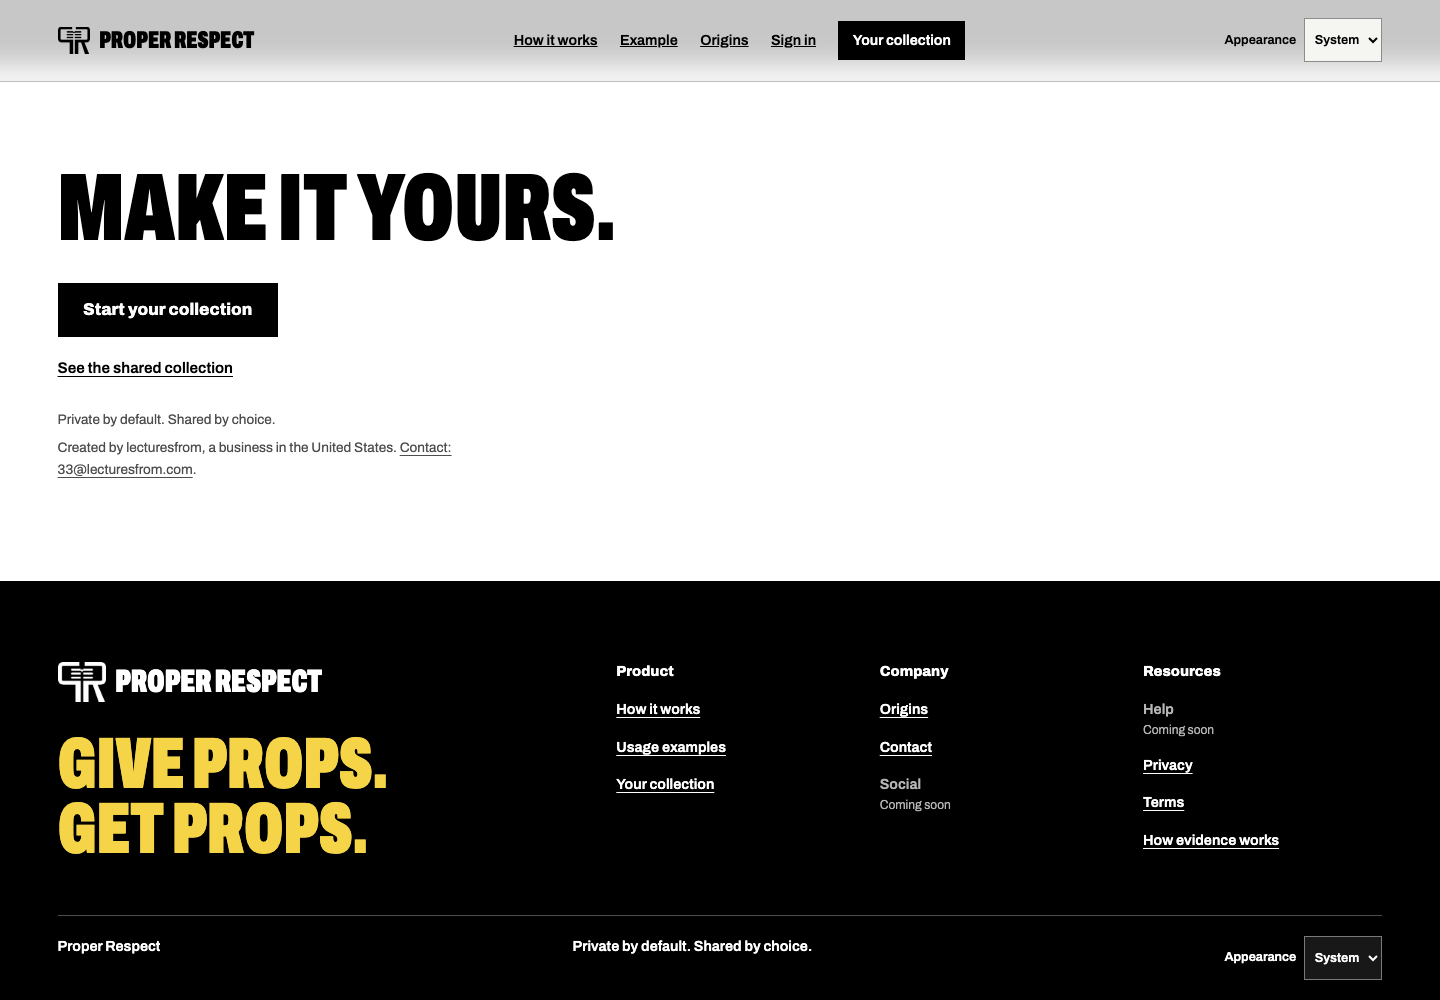
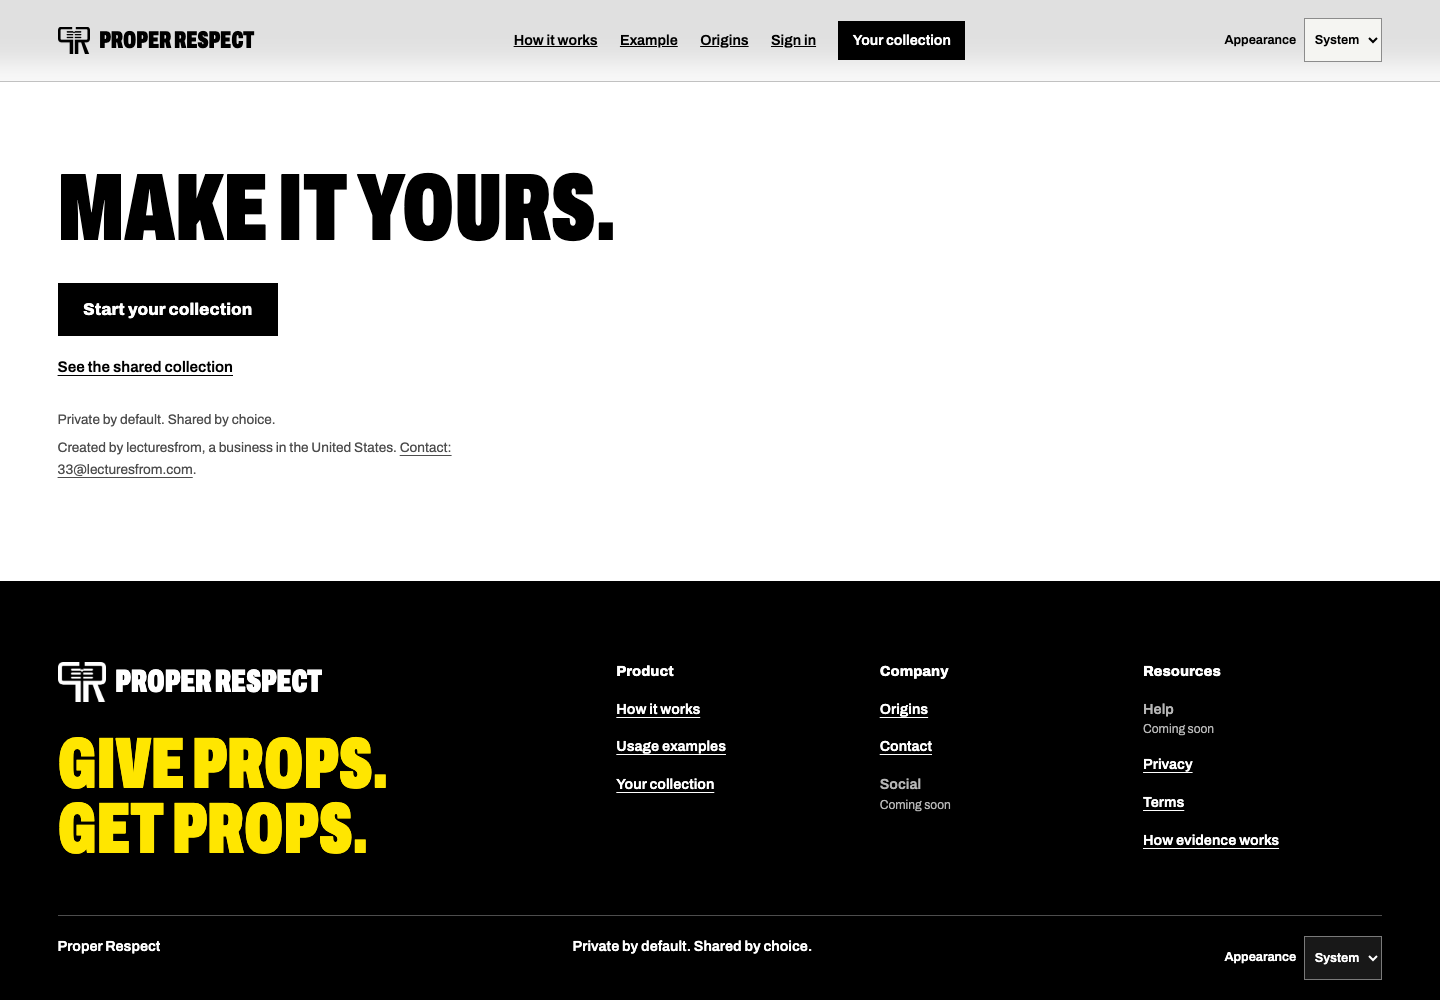
fix: one yellow, on a plain white first screen (#224)
Owner, 2026-11-16: the pale yellow field and the softer second yellow
looked bad. The first screen is plain white in light and black in dark.
There is one yellow, the original, used only as an accent: the card's
offset edge, the footer line, the props heading and the About rail's
marker.

diff --git a/app/homepage.module.css b/app/homepage.module.css
@@ -1,4 +1,4 @@
-/* A show poster: one pale field, wood type set as narrow and heavy as the face goes, and the card as the act on the bill. */
+/* A show poster on plain stock: wood type set as narrow and heavy as the face goes, and the card as the act on the bill. */
 .homepage { font-family: var(--homepage-sans), Arial, sans-serif; color: var(--ink); background: var(--paper); }
 .homepage a { text-underline-offset: .22em; }
 .homepage a:focus-visible { outline: 3px solid var(--focus-ring); outline-offset: 4px; }
@@ -6,9 +6,8 @@
 
 .title, .statement { font-stretch: 62%; font-weight: 900; text-transform: uppercase; margin: 0; }
 
-.hero { background: var(--poster-field); color: var(--poster-ink); border-bottom: 1px solid var(--line); padding: clamp(.75rem, 2vw, 1.75rem) clamp(1rem, 4vw, 5rem) clamp(2rem, 4vw, 4rem);
+.hero { border-bottom: 1px solid var(--line); padding: clamp(.75rem, 2vw, 1.75rem) clamp(1rem, 4vw, 5rem) clamp(2rem, 4vw, 4rem);
   display: grid; grid-template-columns: minmax(0, 42rem) minmax(0, 1fr); grid-template-areas: "title title" "example side"; gap: clamp(.75rem, 1.6vw, 1.5rem) clamp(1.5rem, 3vw, 3rem); align-items: start; }
-.hero a:focus-visible, .hero :global(button:focus-visible) { outline-color: var(--poster-ink); }
 /* One line across the sheet at every width: eighteen characters of this face run about 7.6 times its size. */
 .title { grid-area: title; font-size: clamp(2rem, 11.6vw, 13rem); line-height: .84; letter-spacing: -.005em; white-space: nowrap; }
 .example { grid-area: example; min-width: 0; padding: clamp(.75rem, 1.6vw, 1.5rem); background: var(--example-panel); color: var(--ink); border: 2px solid var(--ink); box-shadow: 10px 10px 0 var(--poster); }
@@ -19,9 +18,6 @@
 .primary { display: inline-flex; justify-content: center; align-items: center; min-height: 52px; padding: .9rem 1.4rem; border: 3px solid var(--ink); background: var(--ink); color: var(--action-text); font-weight: 800; font-size: 1.05rem; text-decoration: none; }
 /* The accent is dark on a light page and light on a dark one, so the label follows the theme with it. */
 .primary:hover { background: var(--respect-red); border-color: var(--respect-red); color: var(--action-text); }
-.hero .primary { background: var(--poster-ink); border-color: var(--poster-ink); color: var(--poster-field); }
-.hero .primary:hover { background: transparent; color: var(--poster-ink); }
-.hero .secondary { color: var(--poster-ink); }
 .secondary { font-size: .95rem; font-weight: 600; line-height: 1.5; padding-block: .35rem; }
 
 .journey, .close { padding: clamp(3rem, 7vw, 7rem) clamp(1rem, 4vw, 5rem); }

diff --git a/app/globals.css b/app/globals.css
@@ -3,9 +3,7 @@
   --paper: #ffffff;
   --panel: #f5f5f2;
   --signal: #d8ff3e;
-  --poster: #f5d547;
-  --poster-field: #fdf3c4;
-  --poster-ink: #000000;
+  --poster: #ffe600;
   --respect-red: #d1004f;
   --focus-ring: #d1004f;
   --muted: #666666;
@@ -28,10 +26,8 @@
   --ink: #ffffff;
   --paper: #000000;
   --panel: #181818;
-  --poster-field: #1d1a0c;
-  --poster-ink: #f5d547;
   --respect-red: #ff5fa2;
-  --focus-ring: #f5d547;
+  --focus-ring: #ffe600;
   --muted: #b5b5b5;
   --line: rgba(255, 255, 255, 0.3);
   --input: #000000;
@@ -1792,7 +1788,7 @@ main {
 .auth-steps { padding-left: 1.3rem; line-height: 1.6; }
 .auth-steps li { padding: .6rem 0; }
 /* The footer is the dark end of every page in both appearances, so it pins its own inks the way a card does. */
-.site-footer { --ink: #ffffff; --paper: #000000; --panel: #181818; --secondary: #b5b5b5; --muted: #b5b5b5; --line: rgba(255, 255, 255, 0.3); --control-line: #7a7a7a; --respect-red: #ff5fa2; --focus-ring: #f5d547; --action-text: #000000; --example-panel: #262626; --input: #000000; --sample-text: #b5b5b5;
+.site-footer { --ink: #ffffff; --paper: #000000; --panel: #181818; --secondary: #b5b5b5; --muted: #b5b5b5; --line: rgba(255, 255, 255, 0.3); --control-line: #7a7a7a; --respect-red: #ff5fa2; --focus-ring: #ffe600; --action-text: #000000; --example-panel: #262626; --input: #000000; --sample-text: #b5b5b5;
   display: block; padding-block: clamp(2.5rem, 6vw, 5rem) 1.25rem; background: var(--paper); color: var(--ink); border: 0; }
 .site-footer-brand > p { color: var(--poster); }
 .site-footer-main { display: grid; grid-template-columns: minmax(0, 1fr) minmax(0, 1.5fr); gap: 3rem; }
